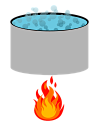
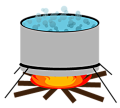
revamped filtration minigame

diff --git a/public/javascripts/purification-minigame.js b/public/javascripts/purification-minigame.js
@@ -1,11 +1,8 @@
 var PurificationMinigame = function(game) {
 	this.game = game;
-    this.conveyors = {
-        a: undefined,
-        b: undefined,
-        c: undefined,
-    };
-    this.scoreText;
+    this.queue = [];
+    this.firewoodLeft = 8;
+    this.containersLeft = 20;
     this.score = 0;
 };
 
@@ -15,7 +12,7 @@ var animalStates = ['healthy_cat', 'sick_cat', 'very_sick_cat'];
 //                     "and what water can be left untouched. Your goal is to make sure that the animals " +
 //                     "at the end of the facility lines do not get infected. The three types of water are " +
 //                     "shown below.";
-var instructions = "Your friends need some help figuring out if their water is clean to drink or not." +
+var instructions = "Your friends need some help figuring out if their water is clean to drink or not. " +
                    "Help them sort the clean water from the dirty by inspecting the water.";
 
 PurificationMinigame.prototype = {
@@ -28,8 +25,6 @@ PurificationMinigame.prototype = {
         game.load.image('bowl', 'images/filtration_minigame/bowl.png');
         game.load.image('tank', 'images/filtration_minigame/tank.png');
         game.load.image('bucket', 'images/filtration_minigame/bucket.png');
-        game.load.image('water_bottle_diagram', 'images/filtration_minigame/water_bottle_diagram.png');
-        game.load.image('conveyor_belt', 'images/filtration_minigame/conveyor_belt.png');
         game.load.image('boiling_pot', 'images/filtration_minigame/boiling_pot.png');
         game.load.image('mom', 'images/filtration_minigame/catmom.png')
         game.load.image('healthy_cat', 'images/filtration_minigame/vectorcat-happy.png');
@@ -42,21 +37,21 @@ PurificationMinigame.prototype = {
     create: function() { 
         // Function called after 'preload' to setup the game
         this.background = game.add.sprite(0, 0, 'background');
+        this.hitBox = new Phaser.Rectangle(325, 250, 175, 150);
 
-        this.diagram = game.add.sprite(650, 50, 'water_bottle_diagram');
-        this.boiler = game.add.sprite(600, 400, 'boiling_pot');
+        this.mom = game.add.sprite(25, 200, 'mom');
+        this.boiler = game.add.sprite(50, 400, 'boiling_pot');
 
-        this.conveyors["a"] = new Conveyor(game.add.sprite(0, 250, 'conveyor_belt'), 175);
-        this.conveyors["b"] = new Conveyor(game.add.sprite(0, 400, 'conveyor_belt'), 325);
-        this.conveyors["c"] = new Conveyor(game.add.sprite(0, 550, 'conveyor_belt'), 475);
+        this.createNewContainer(400);
+        this.createNewContainer();
 
-        for (var i = 0; i < 2; i++) {
-            this.addContainerToConveyor(this.conveyors["a"], i * 200, this.conveyors["a"].position);
-            this.addContainerToConveyor(this.conveyors["b"], i * 200, this.conveyors["b"].position);
-            this.addContainerToConveyor(this.conveyors["c"], i * 200, this.conveyors["c"].position);
-        }
-
-        this.scoreText = game.add.text(0, 0, "Your Score: " + this.score);
+        this.scoreText = game.add.text(25, 0, "Your Score: " + this.score);
+        this.containerScoreText = game.add.text(450, 275, "");
+        this.containersLeftText = game.add.text(25, 520, "Containers Left: " + this.containersLeft);
+        this.fuelLeftText = game.add.text(25, 550, "Firewood Left: " + this.firewoodLeft);
+        this.tempText = game.add.text(450, 500, "");
+        this.sourceText = game.add.text(450, 530, "");
+        this.purityText = game.add.text(450, 560, "");
 
         this.graphics = game.add.graphics(0, 0);
         this.graphics.beginFill(0x000000);
@@ -66,7 +61,6 @@ PurificationMinigame.prototype = {
         this.startButton = game.add.button(300, 400, 'startButton', this.startGame, this);
 
         this.instructionText = game.add.text(50, 50, instructions);
-        this.instructionKey = game.add.sprite(550, 275, 'water_bottle_diagram');
         this.instructionText.fill = 'white';
         this.instructionText.wordWrap = true;
         this.instructionText.wordWrapWidth = 700;
@@ -74,7 +68,6 @@ PurificationMinigame.prototype = {
 
     startGame: function(button) {
         button.destroy();
-        this.instructionKey.destroy();
     },
 
     endGame: function() {
@@ -84,7 +77,7 @@ PurificationMinigame.prototype = {
         this.graphics.drawRect(0, 0, this.game.width, this.game.height);
         this.graphics.endFill();
 
-        this.endGameText = game.add.text(100, 100, "A cat became deathly ill! Your score: " + this.score);
+        this.endGameText = game.add.text(100, 100, "Thanks for your help bottling water! Your score: " + this.score);
         this.endGameText.fill = 'white';
 
         this.endButton = game.add.button(300, 400, 'startButton', this.returnToHome, this);
@@ -95,114 +88,186 @@ PurificationMinigame.prototype = {
         if (!this.startButton.game && !this.gameEnd) {
             this.instructionText.destroy();
             this.graphics.destroy();
-            this.updateAllBottles(this.conveyors);
+            this.updateQueue(this.queue);
         }
     },
 
-    updateAllBottles: function(conveyors) {
-        for (var key in conveyors) {
-            var conveyor = conveyors[key];
-            for (var j = 0; j < conveyor.containers.length; j++) {
-                if (!this.gameEnd) {
-                    var container = conveyor.containers[j];
-                    if (!container.pickedUp) {
-                        this.advanceBottle(conveyor, container, j);
-                    }
-                    else {
-                        container.original_x += 1;
-                        if (container.original_x == 350) {
-                            this.addContainerToConveyor(conveyor, 0, conveyor.position);
-                        }
-                    }                   
-                }
-
-            }
+    updateQueue: function(queue) {
+        if (queue[0].x > 400) {
+            queue[0].x -= 1;
         }
-    },
-
-    advanceBottle: function(conveyor, container, container_index) {
-        container.x += 1;
-        if (container.x == 0) {
-            container.visible = true;
-        }
-        else if (container.x == 350) {
-            if (container.key == 'bowl') {
-                 this.contaminateAnimal(conveyor);
-            }
-            else if (container.key == 'bucket') {
-                if (Math.random() >= 0.9) {
-                    this.contaminateAnimal(conveyor);
+        for (var i = 1; i < queue.length; i++) {
+            if (!queue[i].pickedUp) {
+                if (!this.isCollidingWithNextItemInQueue(queue, i) && queue[i].x > 400) {
+                    queue[i].x -= 1;
                 }
             }
-            if (!this.gameEnd) {
-                container.destroy();
-                conveyor.containers.splice(container_index, 1);
-                this.addContainerToConveyor(conveyor, 0, conveyor.position);
-            }
         }
     },
 
-    contaminateAnimal: function(conveyor) {
-        conveyor.animal.destroy();
-        conveyor.animalState <= 2 ? conveyor.animalState++ : conveyor.animalState += 0;
-        if (conveyor.animalState > 2) {
-            this.endGame();
+    isCollidingWithNextItemInQueue: function(queue, index) {
+        if (Phaser.Rectangle.intersects(queue[index].getBounds(), queue[index - 1].getBounds())) {
+            return true;
+        }
+        return false;
+    },
+
+    createNewContainer: function(x) {
+        var container;
+        if (arguments.length == 0) {
+            container = game.add.sprite(800, 400, randomContainer());
         }
         else {
-            conveyor.animal.destroy();
-            conveyor.animal = game.add.sprite(450, conveyor.position, animalStates[conveyor.animalState]);                                    
+            container = game.add.sprite(x, 400, randomContainer());
+        }
+        this.assignRandomAttributes(container);
+        this.bindDrag(container);
+        this.bindHover(container);
+        this.queue.push(container); 
+    },
+
+    assignRandomAttributes: function(container) {
+        container.dirtiness = 0;
+
+        var tempRandom = Math.random();
+        if (tempRandom < .25) {
+            container.temperature = 'Hot';
+            container.dirtiness += 30;
+        }
+        else if (tempRandom < .5) {
+            container.temperature = 'Warm';
+            container.dirtiness += 60;
+        }
+        else if (tempRandom < .75) {
+            container.temperature = 'Cool';
+            container.dirtiness += 10;
+        }
+        else {
+            container.temperature = 'Cold';
+            container.dirtiness += 5;
+        }
+
+        var sourceRandom = Math.random();
+        if (sourceRandom < .2) {
+            container.source = 'Lake';
+            container.dirtiness += 60;
+        }
+        else if (sourceRandom < .4) {
+            container.source = 'River';
+            container.dirtiness += 30;
+        }
+        else if (sourceRandom < .7) {
+            container.source = 'Well';
+            container.dirtiness += 5;
+        }
+        else {
+            container.source = 'Pump';
+            container.dirtiness += 15;
+        }
+
+        var purityRandom = Math.random();
+        if (purityRandom < .5) {
+            container.purity = 'Clear';
+            container.dirtiness += 5;
+        }
+        else if (purityRandom < .25) {
+            container.purity = 'Dusty';
+            container.dirtiness += 35;
+        }
+        else {
+            container.purity = 'Discolored';
+            container.dirtiness += 80;
         }
     },
 
-    addContainerToConveyor: function(conveyor, x, y) {
-        if (conveyor.containers[0] && conveyor.containers[0].x <= x + 40) {
-            x -= 40;
-        }
-        var container = game.add.sprite(x, y, randomContainer());
-        if (container.key == 'bowl') {
-            container.y += 60;
-        }
-        
-        if (x < 0) {
-            container.visible = false;
-        }
-
+    bindDrag: function(container) {
         container.inputEnabled = true;
         container.input.enableDrag();
         container.events.onDragStart.add(this.startDrag, this);
-        container.events.onDragStop.add(this.stopDrag, this);
+        container.events.onDragStop.add(this.stopDrag, this);        
+    },
 
-        conveyor.containers.splice(0, 0, container);       
+    bindHover: function(container) {
+        container.events.onInputOver.add(this.onHoverOver, this);
+        container.events.onInputOut.add(this.onHoverOut, this);
+    },
+
+    onHoverOver: function(container) {
+        this.tempText.setText("Water Temperature: " + container.temperature);
+        this.sourceText.setText("Water Source: " + container.source);
+        this.purityText.setText("Water Purity: " + container.purity);
+    },
+
+    onHoverOut: function(container) {
+        this.tempText.setText("");
+        this.sourceText.setText("");
+        this.purityText.setText("");
     },
 
     startDrag: function(container) {
         container.pickedUp = true;
-        container.original_x = container.x;
-        container.original_y = container.y;        
+        this.queue.splice(this.queue.indexOf(container), 1);        
     },
 
     stopDrag: function(container) {
         container.pickedUp = false;
         if (Phaser.Rectangle.intersects(container.getBounds(), this.boiler.getBounds())) {
-            this.score += 10;
-            this.scoreText.text = "Your Score: " + this.score;
-            var containingConveyor = findBottle(container, this.conveyors);
             container.destroy();
-            containingConveyor.containers.splice(containingConveyor.containers.indexOf(container), 1);
-            if (containingConveyor.containers.length < 5) {
-                this.addContainerToConveyor(containingConveyor, 0, containingConveyor.position);           
+            this.firewoodLeft -= 1;
+            this.containersLeft -= 1;
+            this.fuelLeftText.setText("Firewood Left: " + this.firewoodLeft);
+            this.containersLeftText.setText("Containers Left: " + this.containersLeft);
+            this.score += 50;
+            this.scoreText.setText("Your Score: " + this.score);
+            if (this.containersLeft > 0) {
+                this.createNewContainer();
+            }
+            if (this.firewoodLeft == 0) {
+                this.boiler.destroy();
+            }
+        }
+        else if (this.hitBox.contains(container.x, container.y)) {
+            container.destroy();
+            this.containersLeft -= 1;
+            this.containersLeftText.setText("Containers Left: " + this.containersLeft);
+            this.score += this.calculateScore(container);
+            this.scoreText.setText("Your Score: " + this.score);
+            if (this.containersLeft > 0) {
+                this.createNewContainer();
             }
         }
         else {
-            if (container.original_x < 350) {
-                container.x = container.original_x;
-                container.y = container.original_y;
+            container.y = 400;
+            var lastContainer = this.queue[this.queue.length - 1];
+            var rightBoundOfLastContainer = lastContainer.x + lastContainer.width;
+            if (container.x >= lastContainer.x && container.x <= rightBoundOfLastContainer) {
+                container.x = rightBoundOfLastContainer;
+                this.queue.push(container);
+            }
+            else if (lastContainer.x > (400 + container.width)) {
+                container.x = 400;
+                this.queue.unshift(container);
+            }
+            else if (container.x <= 400) {
+                container.x = rightBoundOfLastContainer;
+                this.queue.push(container);
             }
             else {
-                container.destroy();
-                findAndDestroy(container, this.conveyors);
-            }     
+                this.queue.push(container);  
+            }
         }
+
+        if (this.containersLeft == 0) {
+            this.endGame();
+        }
+    },
+
+    calculateScore: function(container) {
+        var dirtiness = container.dirtiness / 100;
+        var squared = Math.pow(dirtiness, 2);
+        var score = Math.floor((2 - squared) * 50);
+        this.containerScoreText.setText(score);
+        return score;
     },
 
     returnToHome: function(button) {
@@ -231,13 +296,13 @@ function findBottle(container, conveyors) {
 
 function randomContainer() {
     var random = Math.random();
-    if (random <= .25) {
-        return 'bottle';
-    } else if (random <= .5) {
+    if (random <= .33) {
         return 'bowl';
-    } else if (random <= .75) {
+    }
+    else if (random <= .66) {
         return 'tank';
-    } else {
+    }
+    else {
         return 'bucket';
     }
 }
